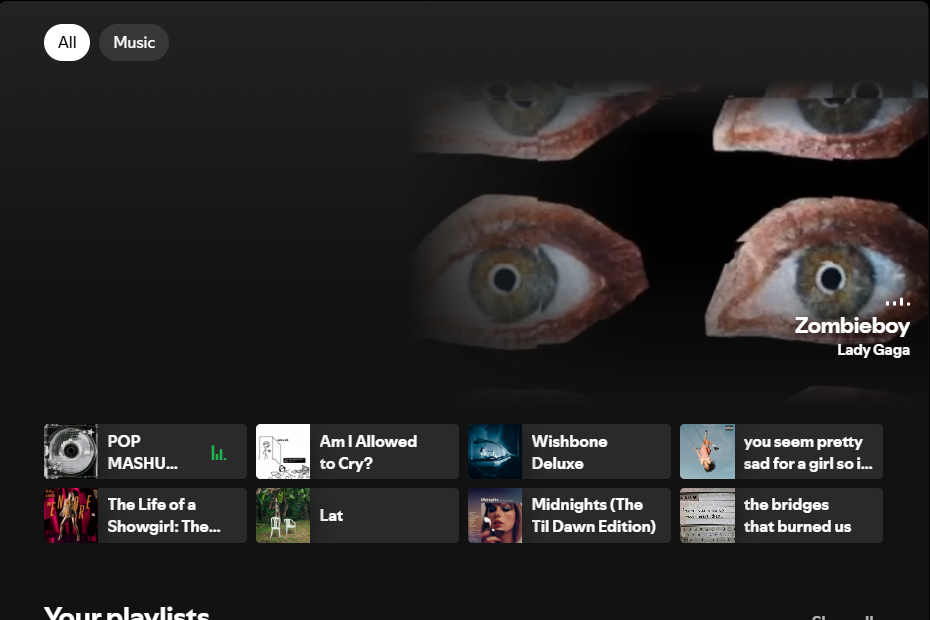
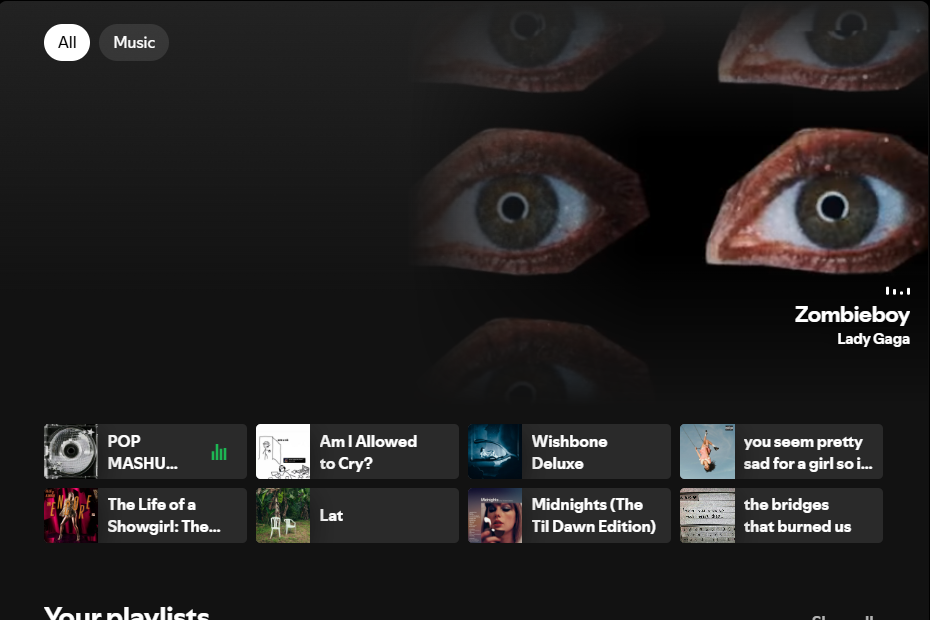
Fade the home band behind the filter chips so no straight edge shows

Changed region(s): [[0.4677, 0.0306, 0.9978, 0.5823], [0.2183, 0.7048, 0.2495, 0.7355]]

diff --git a/canvas-everywhere.js b/canvas-everywhere.js
@@ -112,8 +112,18 @@
       isolation: isolate;
       height: clamp(200px, 32vh, 320px);
       margin-bottom: 16px;
-      overflow: hidden;
-      border-radius: 12px;
+    }
+    /* Empieza por detrás de los filtros de arriba y se funde ahí, para que no quede ningún borde recto */
+    .ce-banner > .ce-stage {
+      top: -68px;
+      height: calc(100% + 68px);
+    }
+    .ce-banner .ce-video {
+      -webkit-mask-image: linear-gradient(180deg, transparent, #000 34%, #000 62%, transparent), linear-gradient(90deg, transparent, #000 45%);
+    }
+    #main-view:has(.ce-banner) .jTuahgNncRCCfJfiJwQi,
+    #main-view:has(.ce-banner) .jTuahgNncRCCfJfiJwQi > * {
+      background: none !important;
     }
     .ce-banner .ce-caption { bottom: 14%; }
 
